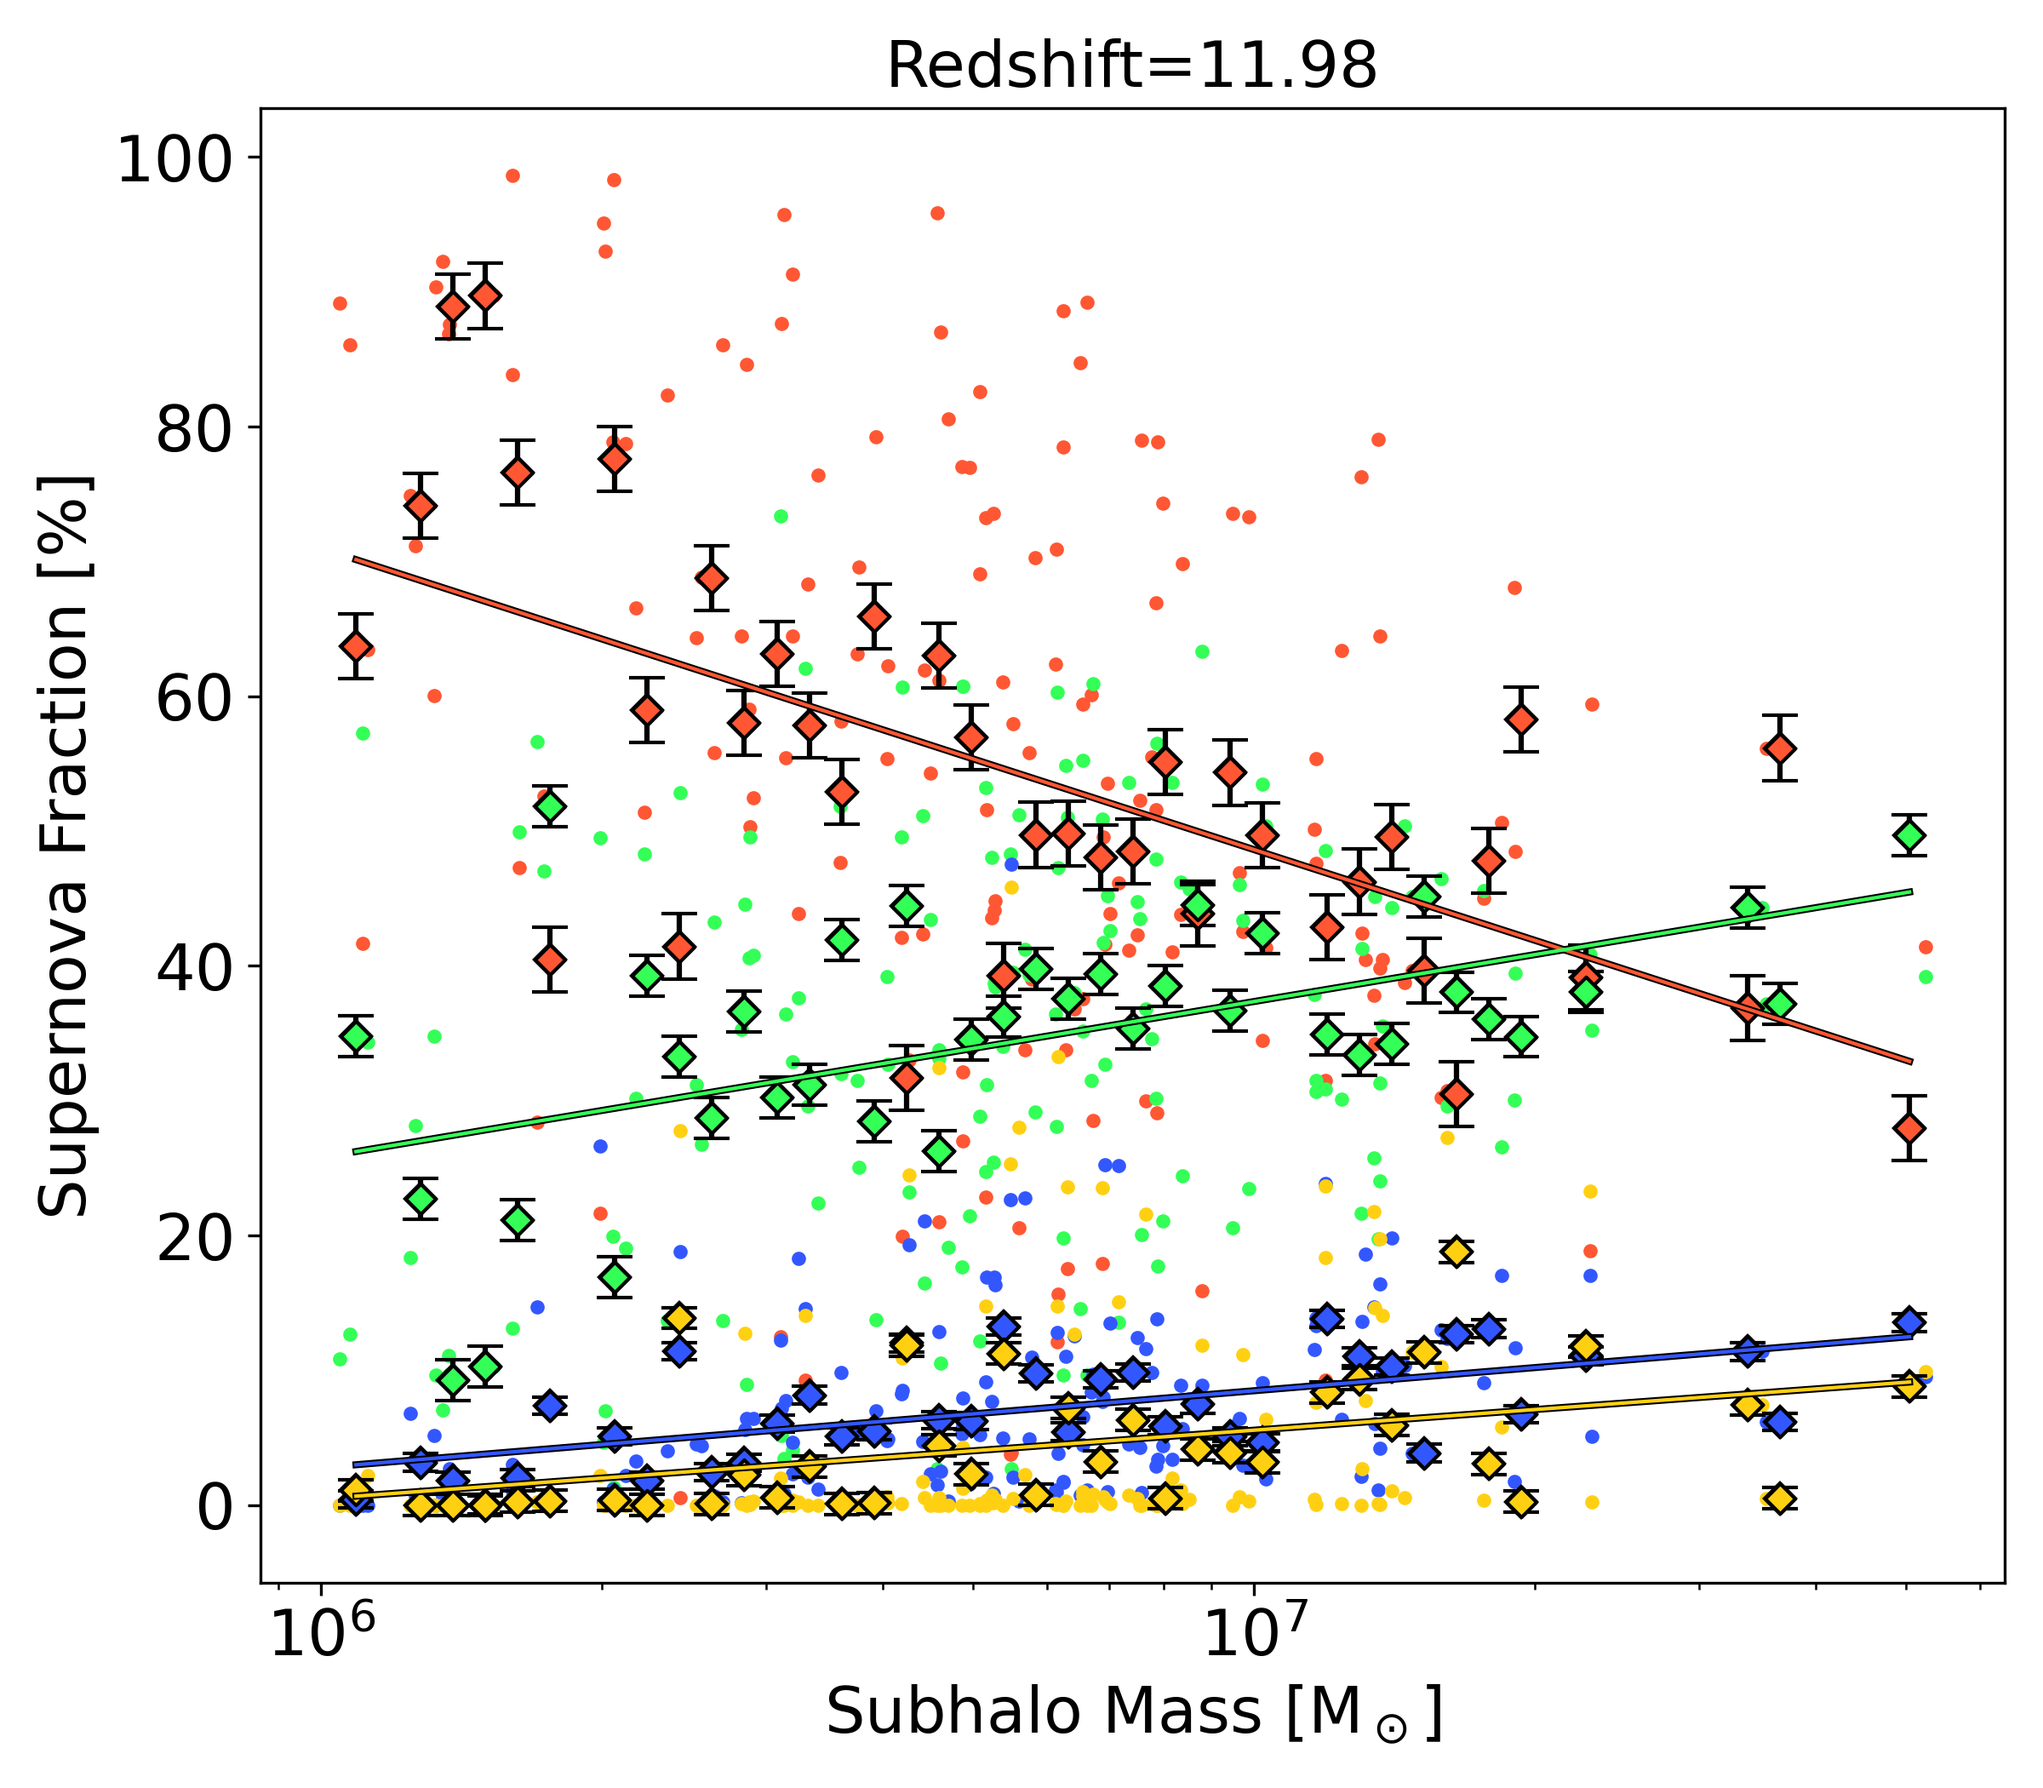
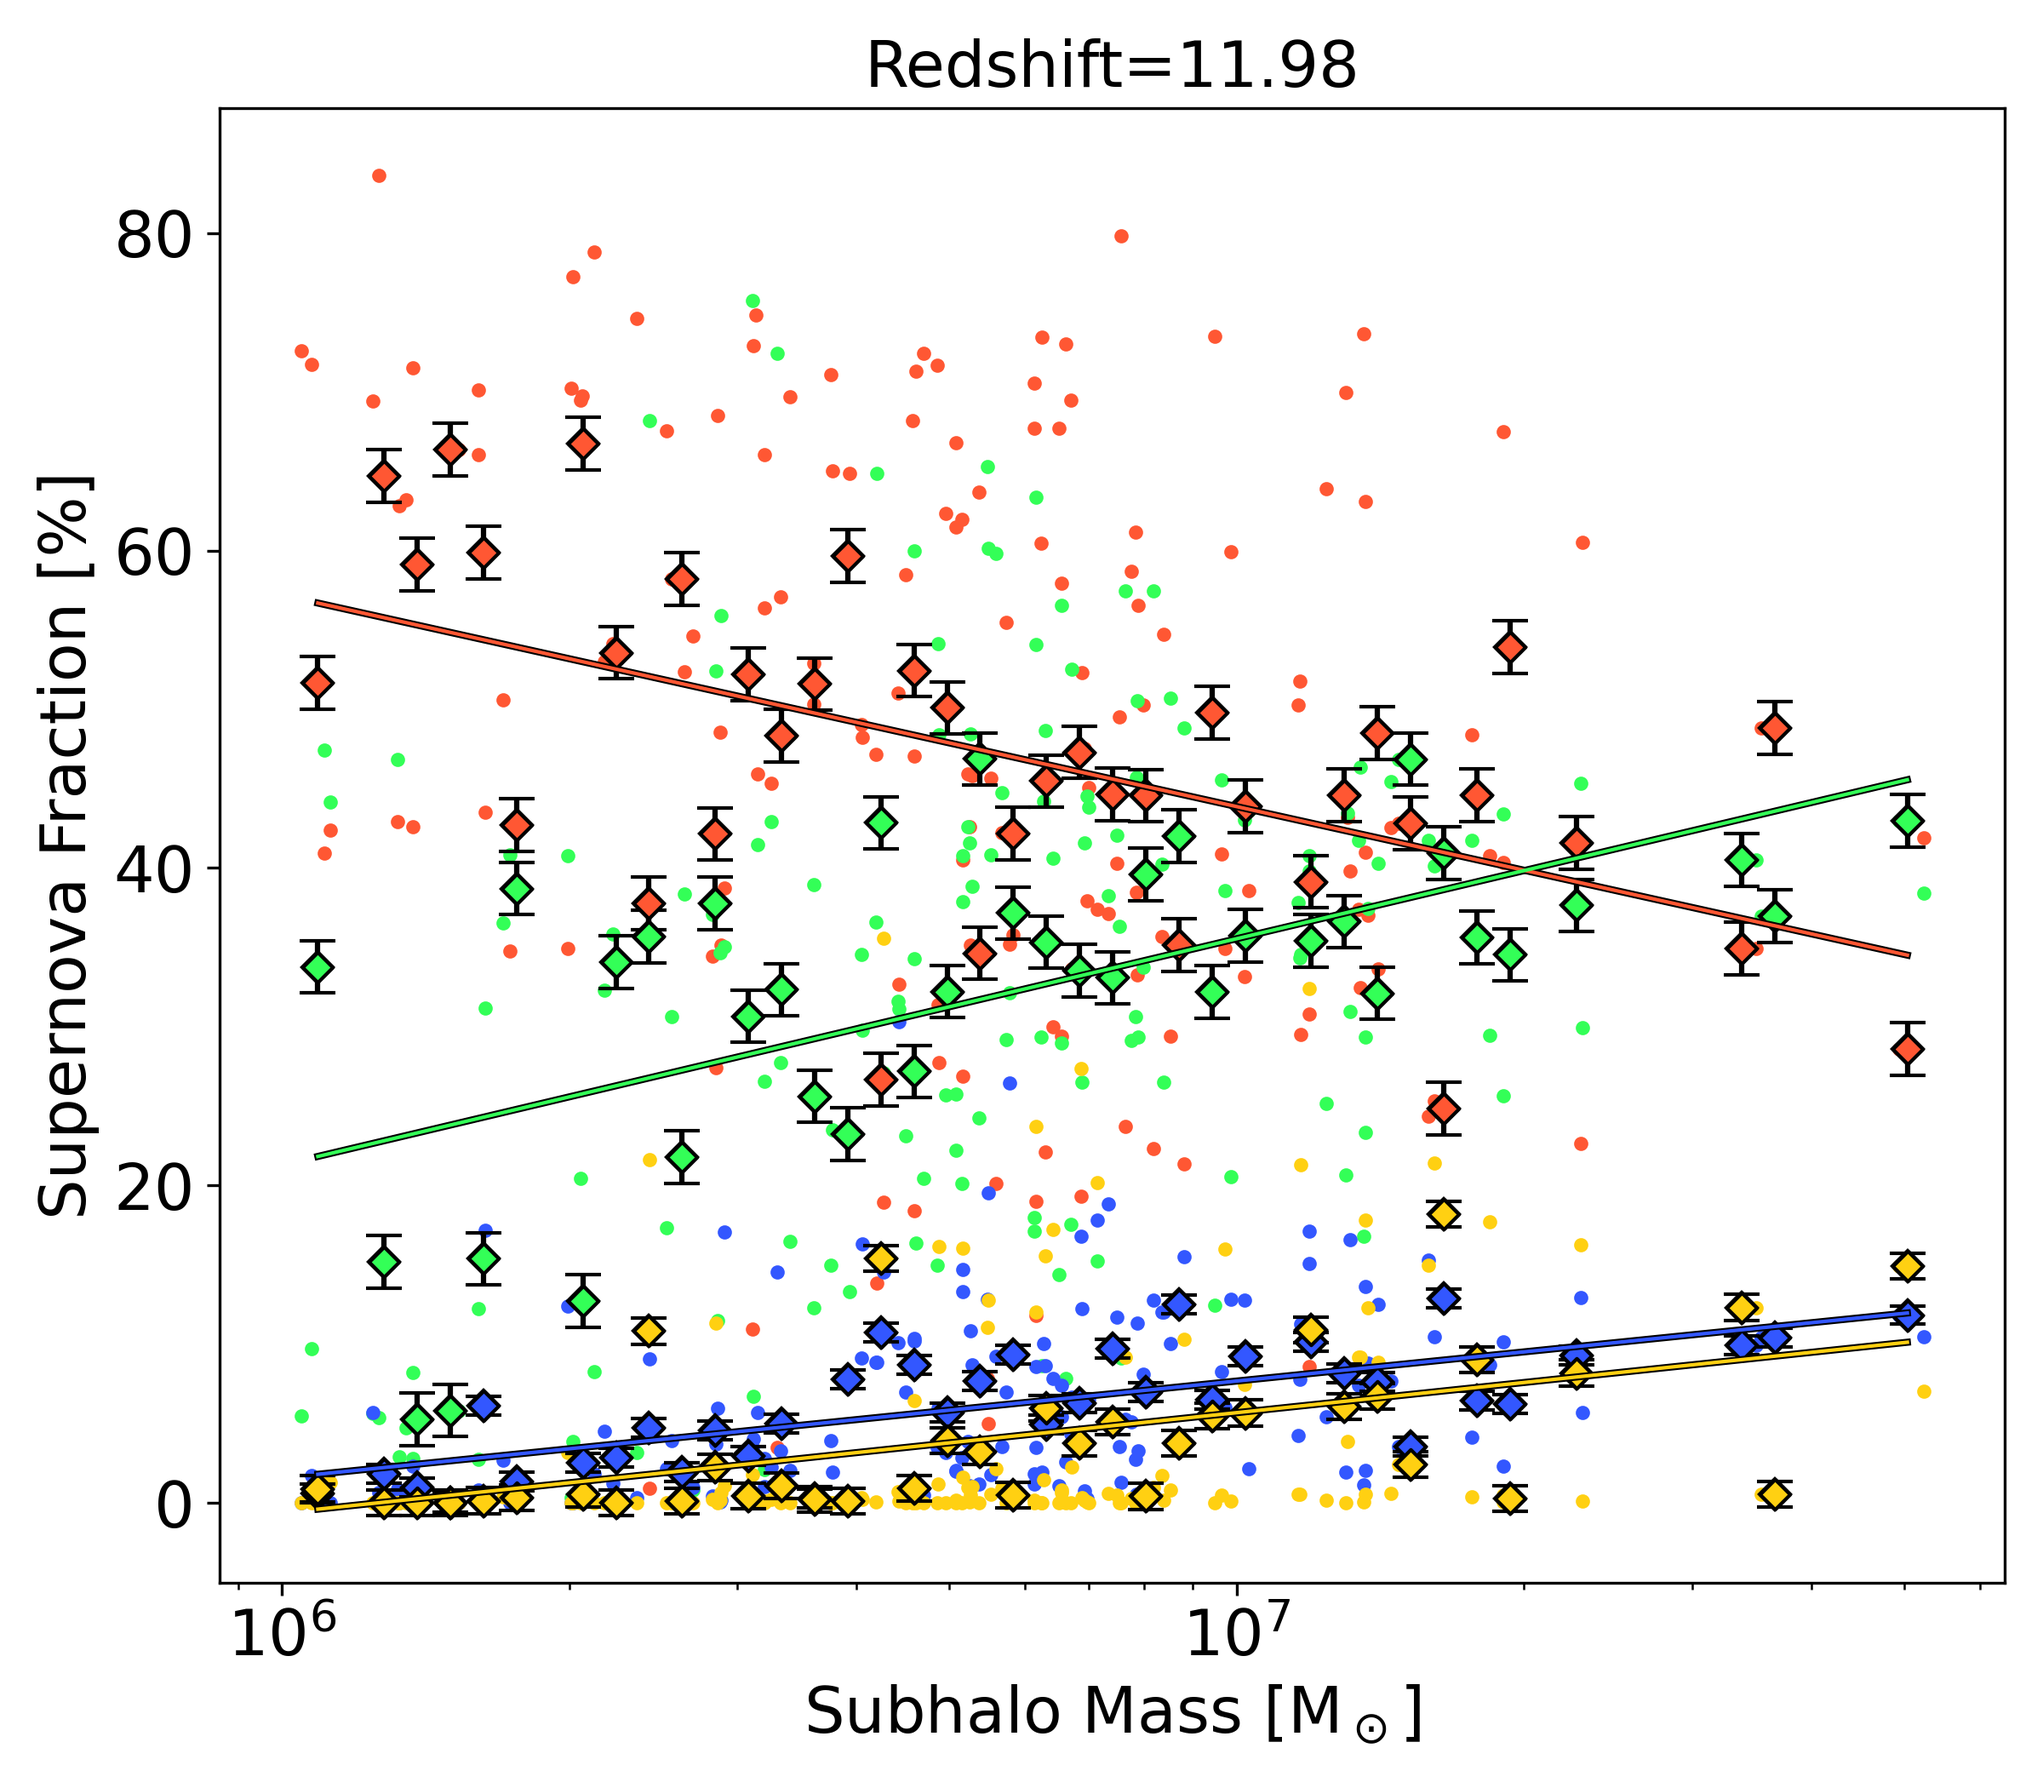
Printed AIC Fractions and Gradients

diff --git a/halo.py b/halo.py
@@ -129,13 +129,18 @@ def redshift_bins(snaps, png_name='ratio.png', pcols=1):
 
     ratio_data = {}
 
+    data = []
+    zs = []
     for i, s in enumerate(snaps):
         df = dfs[s]
         z = df["z"].iloc[0]
-        print(z)
+        #print(z)
+        zs.append(z)
 
         sub_data = {}
         sub_data['Redshift'] = round(z,2)
+
+        sdata = {}
         for idx, sn in enumerate(sn_type):
             # convert ratio to fraction
             ratio = df[f"snr_{sn}_ratio"] * 100
@@ -178,6 +183,7 @@ def redshift_bins(snaps, png_name='ratio.png', pcols=1):
             y_pred = myfunc(z_log, slope, intercept)
             #regress = linear(z_log, slope, intercept)
             #print(f"    {slope:.2f} $\pm$ {std_err:.2f} & ")
+            sdata[sn] = (f"{slope:.2f}({std_err:.2f}) &")
             
             axes[i].plot(bin_centers, y_pred, color='black', linewidth=2, zorder=30)  
             axes[i].plot(bin_centers, y_pred, color=colors[idx], linewidth=1, zorder=40)  
@@ -185,6 +191,7 @@ def redshift_bins(snaps, png_name='ratio.png', pcols=1):
             axes_bin[i].plot(bin_centers, y_pred, color=colors[idx], linewidth=1, zorder=40) 
 
         ratio_data[s] = sub_data
+        data.append(sdata)
         axes[i].set_xlabel(r'Subhalo Mass [$\mathrm{M_\odot}$]', fontsize=18)
         axes[i].set_ylabel("Supernova Fraction [%]", fontsize=18)
         axes[i].set_xscale('log')
@@ -197,6 +204,9 @@ def redshift_bins(snaps, png_name='ratio.png', pcols=1):
         axes_bin[i].set_title(f"Redshift={z:.2f}", fontsize=18)
         axes_bin[i].tick_params(axis='both', labelsize=18)
     
+    for idx, row in enumerate(reversed(np.array(data))):
+        print(round(zs[len(zs)-1-idx],2), ' & ', *data[len(data)-1-idx].values() , '\\\\')
+
     # legends
     handles, labels = axes[0].get_legend_handles_labels()
     #fig.legend(handles, labels, loc="lower center", ncol=len(sn_type))
@@ -289,7 +299,7 @@ def run_redshift():
         all_rows.append(df)
 
     all_data = pd.concat(all_rows, ignore_index=True)
-    all_data.to_csv('Final/Data/all_snapshots_ratio.csv', index=False)
+    all_data.to_csv('Final/Data/all_snapshots_ratio_new.csv', index=False)
 
     # Convert to LaTeX
     latex_table = all_data.to_latex(index=False, float_format="%.2f")
@@ -317,6 +327,10 @@ def run_cosmic():
         f.write("Complexity 8\n")
 
     fig, ax = plt.subplots(figsize=(8, 6))
+    data = {}
+    total = 0 
+    ratio_errs = []
+    ratios = []
     for idx, sn in enumerate(sn_type):
         print(sn)
         z = df["Redshift"]
@@ -361,20 +375,31 @@ def run_cosmic():
         ax.plot(x_aic, y_aic, color=colors[idx], linewidth=1, zorder=20, label=f"{sn} aic") 
         ax.plot(x_aic, y_aic, color='black', linewidth=2, zorder=10) 
 
+        formatted_ratio = [f"{x:.2f}" for x in ratio]
+        formatted_err = [f"{x:.2f}" for x in err]
         # calculate average across all redshifts
         sn_ratio = np.mean(ratio)
         # calculate error in average across all redhisfts
         sn_err = np.std(ratio, ddof=1) / np.sqrt(len(ratio))
         print(f'  Halo: {sn}: {sn_ratio:.2f} ± {sn_err:.2f}')
+
+        rows = []
+        for a, b in zip(formatted_ratio, formatted_err):
+            rows.append(f"{a}({b}) &")
+
+        data[sn] = rows
         
+    for idx, row in enumerate(zip(*data.values())):
+        print(z[len(z)-1-idx], ' & ', *row , '\\')
+    
     ax.set_xlabel("Redshift (z)", fontsize=18)
     ax.set_ylabel("Supernova Fraction [%]", fontsize=18)
     #ax.set_ylim(0,100)
     ax.tick_params(axis='both', labelsize=18)
 
     handles, labels = ax.get_legend_handles_labels()
-    fig.legend(handles, labels, loc="lower center", ncol=len(sn_type), fontsize=18)
-    fig.tight_layout(rect=[0, 0.3, 1, 1])
+    #fig.legend(handles, labels, loc="lower center", ncol=len(sn_type), fontsize=18)
+    fig.tight_layout(rect=[0, 0, 1, 1])
     fig.savefig(f"Data/Images/TNG/ratio/mass/cosmic_halo.png", dpi=300)
     return 0
 
@@ -515,7 +540,7 @@ def apply_aic(x, y, errs, additional_checks=False):
     return coeffs, errCoeffs, selectedOrder, poly_plot, xPlot
 '''
 
-#run_redshift()
+run_redshift()
 run_cosmic()
 #animate_plotter(snapshots, True)
 

diff --git a/Final/Data/all_snapshots_ratio.tex b/Final/Data/all_snapshots_ratio.tex
@@ -2,7 +2,7 @@
 \toprule
 Snapshot & Redshift & IIP & IIP_err & II-Other & II-Other_err & Ib & Ib_err & Ic & Ic_err \\
 \midrule
-2 & 11.98 & 54.60 & 1.83 & 33.83 & 1.26 & 7.27 & 0.56 & 4.30 & 0.67 \\
+2 & 11.98 & 47.56 & 1.46 & 32.25 & 1.33 & 6.30 & 0.46 & 3.72 & 0.55 \\
 10 & 7.24 & 47.62 & 0.64 & 36.71 & 0.44 & 9.66 & 0.22 & 6.00 & 0.25 \\
 20 & 4.18 & 47.08 & 0.29 & 29.61 & 0.27 & 15.10 & 0.20 & 8.22 & 0.14 \\
 26 & 2.90 & 46.49 & 0.20 & 23.00 & 0.21 & 20.98 & 0.22 & 9.53 & 0.10 \\

diff --git a/tng.py b/tng.py
@@ -674,8 +674,9 @@ def cosmic_level(snaps, kcc_type, rates_folder_type):
 """"""""""""""""""""""""""""""""""""""""""""""""""""""""""""""""""""""""""""""
 # region Build
 snapshots = [2, 10, 20, 26, 32, 40, 50, 57, 66, 80, 98]
+snapshots = [2]
 
-build = False
+build = True
 
 if build == True:
     results = []
